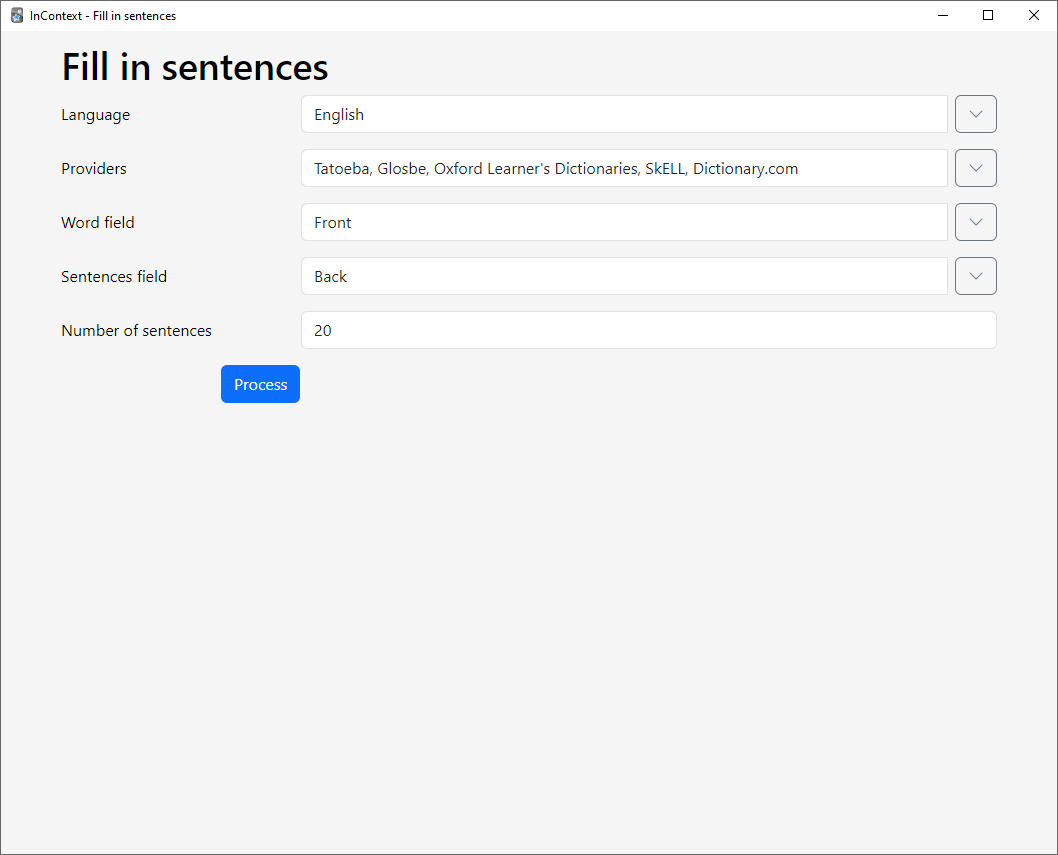
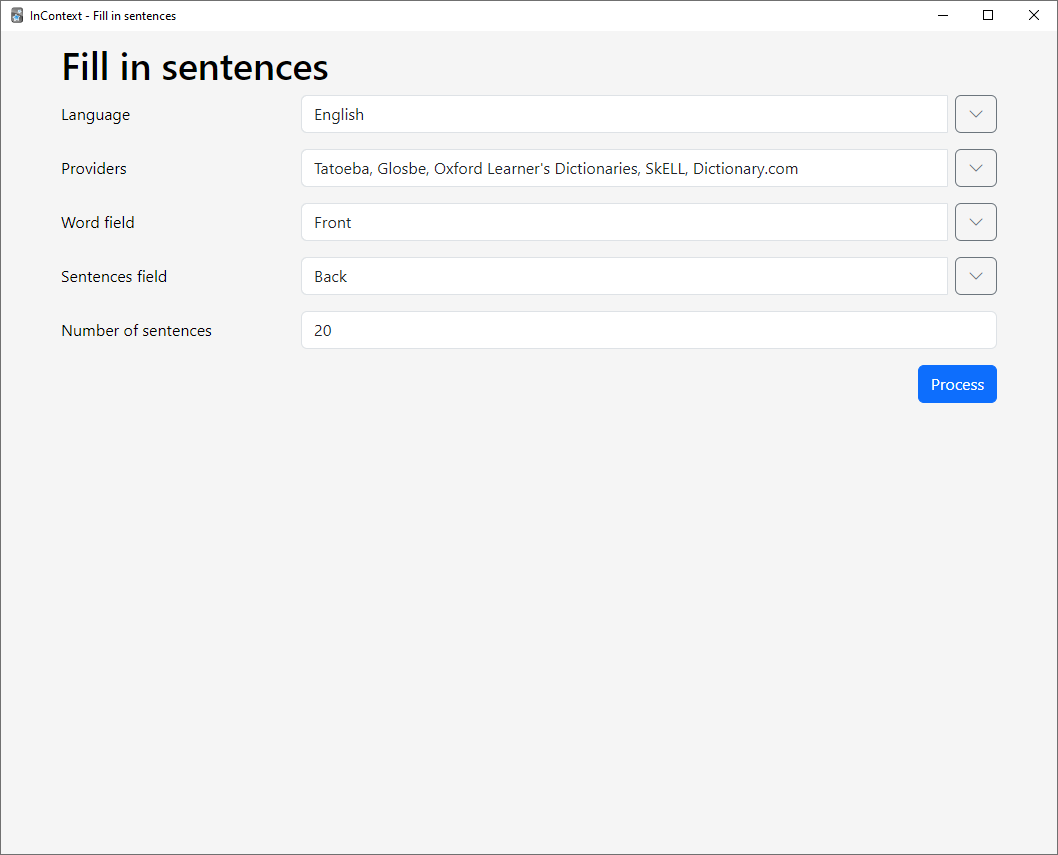
Move Process button to the left

Changed region(s): [[0.8422, 0.4257, 0.9669, 0.4865], [0.1871, 0.4257, 0.2807, 0.4865]]

diff --git a/ts/src/routes/fill/+page.svelte b/ts/src/routes/fill/+page.svelte
@@ -131,7 +131,8 @@
                 </div>
             </div>
             <div class="mb-3 row">
-                <div class="col-sm-9 offset-sm-2">
+                <div class="col-sm-3"></div>
+                <div class="col-sm-9 text-end">
                     <button
                         type="button"
                         class="btn btn-primary"
